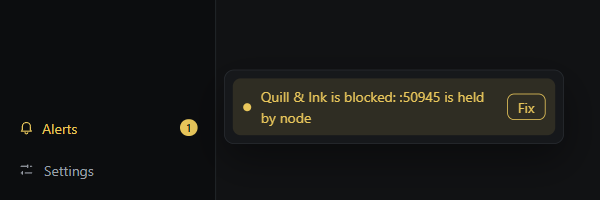
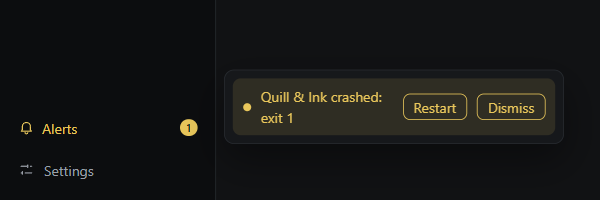
docs: README and landing page match 5.1.0 (no blocked state, crash-only bell, Home and Ports) (#231)
Home rows/tiles, Apps tiles and project sections, Ports folding, REFERENCE port conflicts. Landing rows.png and alerts.png retaken with a crashed app; serve.js gains --exit-after for that.

Changed region(s): [[0.54, 0.45, 0.9, 0.6], [0.42, 0.57, 0.54, 0.63]]

diff --git a/docs/demo/fictional/landing-shots.js b/docs/demo/fictional/landing-shots.js
@@ -1,7 +1,6 @@
-// Landing-page crops of the v5 UI over the fictional demo apps: the Rows view with a blocked port, and the Alerts bell open.
+// Landing-page crops of the v5 UI over the fictional demo apps: the Rows view with a crashed app, and the Alerts bell open on it.
 // Run: npm run build:ui && node docs/demo/fictional/landing-shots.js [outDir]   (writes rows.png and alerts.png)
 const path = require('path');
-const net = require('net');
 const root = path.resolve(__dirname, '..', '..', '..');
 const h = require(path.join(root, 'tests', 'e2e-harness'));
 const { fs, until } = h;
@@ -11,7 +10,8 @@ const SITES = [
   { site: 'shop', name: 'Fernlane Goods', group: 'work' },
   { site: 'dashboard', name: 'Tidewatch', group: 'work' },
   { site: 'docs', name: 'Lumen Docs', group: 'work' },
-  { site: 'blog', name: 'Quill & Ink', group: 'personal' },
+  // Serves for a few seconds, then exits 1: the crash on the row and the bell.
+  { site: 'blog', name: 'Quill & Ink', group: 'personal', crash: true },
   { site: 'portfolio', name: 'Marlowe Studio', group: 'personal' },
 ];
 const world = h.makeWorld('pp-landing-');
@@ -19,12 +19,11 @@ const world = h.makeWorld('pp-landing-');
 async function main() {
   const ports = await h.freePorts(SITES.length);
   const apps = SITES.map((s, i) => ({
-    id: `app_${s.site}`, name: s.name, group: s.group, command: `node ../../serve.js --site ${s.site} --port ${ports[i]}`,
+    id: `app_${s.site}`, name: s.name, group: s.group,
+    command: `node ../../serve.js --site ${s.site} --port ${ports[i]}${s.crash ? ' --exit-after 6000' : ''}`,
     cwd: path.join(__dirname, 'sites', s.site), preferredPort: ports[i],
   }));
   world.writeConfig({ apps, groups: [{ id: 'work', name: 'Work' }, { id: 'personal', name: 'Personal' }] });
-  // Quill & Ink's port is taken by something else.
-  const blocker = net.createServer().listen(ports[3], '127.0.0.1');
   const { app, win } = await h.launch(world, { width: 1440, height: 900 });
   try {
     fs.mkdirSync(OUT, { recursive: true });
@@ -32,22 +31,22 @@ async function main() {
     // An unfocused window can hang screenshots.
     await app.evaluate(({ BrowserWindow }) => { const w = BrowserWindow.getAllWindows()[0]; w.show(); w.focus(); });
     await win.emulateMedia({ colorScheme: 'dark' });
-    for (const a of apps.slice(0, 3)) await win.evaluate((x) => window.portpilot.process.start(x), a);
+    for (const a of apps.slice(0, 4)) await win.evaluate((x) => window.portpilot.process.start(x), a);
     await win.click('role=tab[name="Apps"]');
     await win.click('role=button[name="Rows"]');
-    await until(() => win.evaluate(() => document.querySelectorAll('.bell-count').length >= 1), 30000, 'blocked port counted');
+    await until(() => win.evaluate(() => document.querySelectorAll('.bell-count').length >= 1), 60000, 'crash counted');
     await until(() => win.evaluate(() => (document.querySelector('.main').innerText.match(/running/g) || []).length >= 3), 60000, 'three running');
-    await h.sleep(1500);
+    // Let the crash toast clear before the crops.
+    await h.sleep(8000);
     const box = await win.evaluate(() => {
-      const rows = [...document.querySelectorAll('.main section, .main .group, .main ul')];
       const r = document.querySelector('.main').getBoundingClientRect();
       const last = [...document.querySelectorAll('.main *')].filter((e) => e.getBoundingClientRect().height > 0).reduce((m, e) => Math.max(m, e.getBoundingClientRect().bottom), 0);
-      return { x: r.x, w: r.width, last, n: rows.length };
+      return { x: r.x, w: r.width, last };
     });
     await win.screenshot({ path: path.join(OUT, 'rows.png'), clip: { x: box.x, y: 100, width: box.w, height: box.last + 12 - 100 } });
     await win.locator('.alerts-side .bell').click();
     await h.sleep(400);
     await win.screenshot({ path: path.join(OUT, 'alerts.png'), clip: { x: 0, y: 700, width: 600, height: 200 } });
-  } finally { blocker.close(); await h.closeApp(app); }
+  } finally { await h.closeApp(app); }
 }
 main().then(() => process.exit(0), (e) => { console.error(e); process.exit(1); });

diff --git a/docs/index.html b/docs/index.html
@@ -63,8 +63,8 @@
     "isAccessibleForFree": true,
     "featureList": [
       "Claude Code plugin with a status line, a dev-server guard and crash alerts",
-      "Row state on every app: running, stopped or blocked, with what holds a blocked port",
-      "Alerts bell with a count for blocked ports, and Free to stop the holder",
+      "Row state on every app: running, stopped or crashed, and what holds a taken port when you press Start",
+      "Alerts bell with a count of crashes, and Restart from the bell",
       "MCP server with 26 tools for any MCP assistant",
       "Branch and worktree awareness with nested, colour-coded rows",
       "Port scanning with process details and one-click kill",
@@ -246,16 +246,16 @@
         <div class="feature-row reveal">
           <div class="feature-copy">
             <h3>Row state</h3>
-            <p>Every app shows its state and port. A blocked app says what holds the port, so the right server is easy to spot. The Cards view adds a small preview of each running page.</p>
+            <p>Every app shows its state and port, and a crash says how the app exited. Press Start on an app whose port is taken and PortPilot names what holds it. The Tiles view adds a picture of each running page.</p>
           </div>
-          <img src="screenshots/ui/rows.png" class="crop zoomable" tabindex="0" width="1224" height="288" loading="lazy" alt="The Rows view: three running apps with Open and Stop, one app marked blocked because its port is held by node, and one stopped app">
+          <img src="screenshots/ui/rows.png" class="crop zoomable" tabindex="0" width="1224" height="337" loading="lazy" alt="The Rows view: three running apps with Open and Stop, one app crashed with exit code 1, and one stopped app">
         </div>
         <div class="feature-row reveal">
           <div class="feature-copy">
             <h3>Alerts, out of the way</h3>
-            <p>A blocked port adds to the count on the Alerts bell instead of covering the screen. Click it to see each one, and Fix opens Ports, where Free stops whatever holds the port.</p>
+            <p>A crash adds to the count on the Alerts bell instead of covering the screen. Click it to see each one, then Restart the app or Dismiss the note.</p>
           </div>
-          <img src="screenshots/ui/alerts.png" class="crop zoomable" tabindex="0" width="600" height="200" loading="lazy" alt="The Alerts bell with a count of 1, open on a note that Quill and Ink is blocked because its port is held by node, with a Fix button">
+          <img src="screenshots/ui/alerts.png" class="crop zoomable" tabindex="0" width="600" height="200" loading="lazy" alt="The Alerts bell with a count of 1, open on a note that Quill and Ink crashed with exit 1, with Restart and Dismiss">
         </div>
       </div>
     </section>
@@ -281,7 +281,7 @@
             <ul>
               <li>Scan every TCP port with process, PID, memory and uptime</li>
               <li>Kill a stuck port in one click</li>
-              <li>Grouped into Dev, Other and System</li>
+              <li>Your ports first; temporary and system ports fold away</li>
               <li>Bind type and IPv4/IPv6 on each port</li>
             </ul>
           </article>

diff --git a/docs/demo/fictional/serve.js b/docs/demo/fictional/serve.js
@@ -20,4 +20,9 @@ http.createServer((req, res) => {
   if (!TYPES[path.extname(file)] || !fs.existsSync(file)) { res.writeHead(404); res.end('Not found'); return; }
   res.writeHead(200, { 'content-type': TYPES[path.extname(file)] });
   fs.createReadStream(file).pipe(res);
-}).listen(port, '127.0.0.1', () => console.log(`${site} on http://localhost:${port}`));
+}).listen(port, '127.0.0.1', () => {
+  console.log(`${site} on http://localhost:${port}`);
+  // --exit-after <ms>: serve, then die with exit 1, so a screenshot can show a crash.
+  const ms = Number(arg('exit-after'));
+  if (ms > 0) setTimeout(() => { console.error(`${site}: simulated crash`); process.exit(1); }, ms);
+});

diff --git a/README.md b/README.md
@@ -194,12 +194,13 @@ More Claude Code screenshots (status line, crash band, `find_run`): [reference](
 </table>
 
 **Home**
-- Shows what you were just doing: a row per running app with Open, Stop and Details.
-- Your browser profiles as pictures, and recently used apps with a thumbnail of the page each served.
+- Shows what you were just doing: every running app as a picture tile with Stop and a menu.
+- Recently used apps and your browser profiles as rows with the port, the time and Start.
 
 **Apps**
-- Every app as a card with a live preview of its page, running first and stopped ones below.
+- Every app as a tile with a live preview of its page, running first and stopped ones below.
 - Switch between Rows and Tiles, and between Grouped and Flat.
+- Apps from the same repo or its worktrees share a section; apps not run or added in 30 days fold under Show older.
 - A stopped app stays "stopped" even when another program holds its port; you are told when you press Start. The Alerts bell counts crashes and failed starts only.
 
 **Manage**
@@ -213,7 +214,8 @@ More Claude Code screenshots (status line, crash band, `find_run`): [reference](
 - Servers PortPilot did not start (from a terminal, Claude or an editor) are recorded too once they answer HTTP on two scans in a row; switch that off under Settings.
 
 **Ports**
-- Lists every TCP port with its process.
+- Lists every TCP port with its process, your ports first.
+- Temporary ports (49152 and above) and system ports fold under one line each; the filter still finds them.
 - Offers Kill and Find a free port.
 
 **Scenes**

diff --git a/docs/REFERENCE.md b/docs/REFERENCE.md
@@ -86,7 +86,7 @@ The Claude Code images are terminal frames rendered around the plugin's real out
 
 **Manual entry.** Click Add app and fill in Name, Command (for example `npm run dev`), Working Directory, Preferred Port, and an optional Fallback Range (for example `3001-3010`).
 
-**Port conflicts.** When another process holds an app's port, the Alerts bell counts it, and its Fix button opens Ports, where **Free :port** stops the holder.
+**Port conflicts.** A stopped app whose port another process holds stays "stopped". Press Start and PortPilot names the holder, and **Go to Ports** opens Ports filtered to that port, where **Free :port** stops it. The Alerts bell counts crashes only.
 
 ## Badges
 
